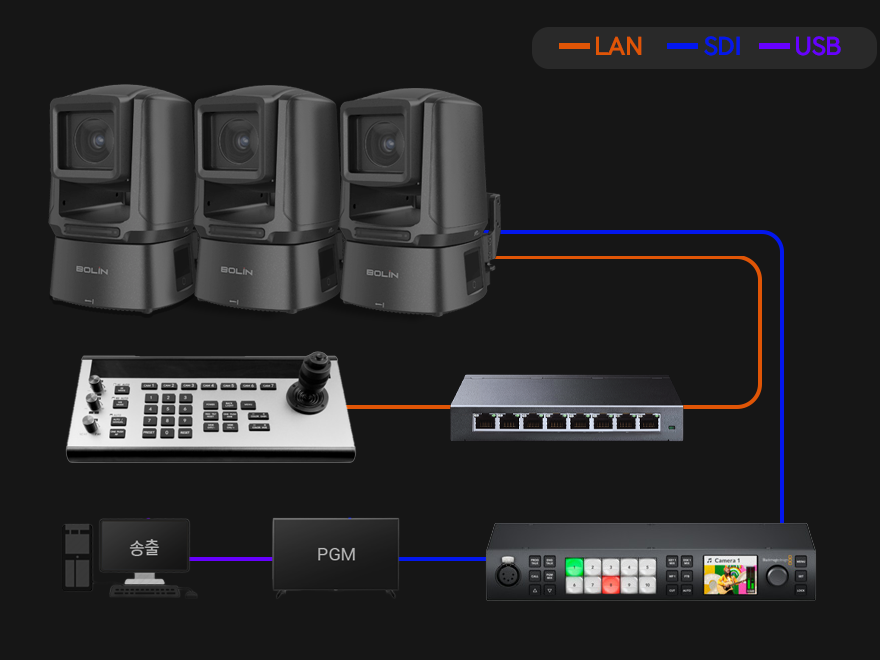
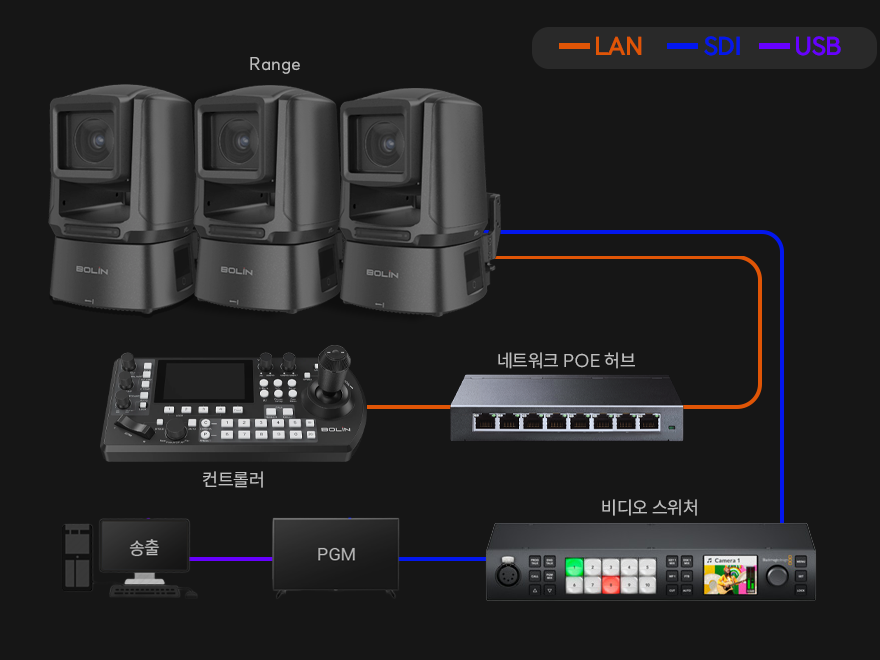
poe
poe

diff --git a/test/prd/main/range/main.html b/test/prd/main/range/main.html
@@ -265,7 +265,7 @@ with 3 Selectable Patterns  (Low/Mid/High)
 
     <section class="av_sc">
       <div class="av_d">
-        <h2>IP65 방수/방진
+        <h2>IP65등급 방수/방진
 </h2>
         <span>
         와이퍼 기능과 IP65 등급의 보호 기능은 카메라를 먼지와 물로부터 보호하여 실외 및 열악한 환경에서도 안정적인 작동을 보장합니다.
@@ -282,7 +282,7 @@ with 3 Selectable Patterns  (Low/Mid/High)
 
     <section class="av_sc">
       <div class="av_d">
-        <h2>Go Where the Story Happens</h2>
+        <h2>휴대용 케이스 제공</h2>
         <span>
         이동이 잦은 프로덕션을 위해 설계되었습니다. 라이브 이벤트부터 임시 설치물, 현장 촬영까지, Range 카메라는 신속하게 배치하여 스토리가 펼쳐지는 곳이라면 어디든 가져갈 수 있도록 디자인되었습니다. 포함된 휴대용 케이스에서 카메라를 꺼내 장착하고 바로 촬영을 시작하세요. 이벤트가 끝나면 다시 케이스에 넣어 다음 장소로 이동하면 됩니다.
         </span>
@@ -351,7 +351,7 @@ with 3 Selectable Patterns  (Low/Mid/High)
 
         <script src="https://kit.fontawesome.com/df91602618.js" crossorigin="anonymous"></script>
         <div class="ad_s">
-          <div><img src="../../img/b7/zpoez.png">
+          <div><img src="../../img/range/ragne2.png">
             <span style="color: #ccc; display: flex; margin: 0 auto;">외부 장치를 작동시키기 위해 최대 12V, 2A의 전력 출력을 제공</span>
         </div>
        </div>
@@ -378,8 +378,8 @@ with 3 Selectable Patterns  (Low/Mid/High)
         카메라의 팬, 틸트, 줌을 원격으로 조정할 수 있어 사용자의 편의성을 높여줍니다.
         </span>
         <div class="ad_s" id="srej">
-        <li><img src="../../img/range/re4.png"><h5>KBD-PLUS(옵션)</h5><span>카메라 1~7번<br>프리셋 255개 Max</span></li>
-        <li><img src="../../img/range/re3.png" width="80%"><h5>SMC-100(옵션)</h5><span>카메라 1~5번<br>프리셋 255개</span></li>
+        <li><img src="../../img/range/re4.png"><h5>KBD-PLUS(옵션)</h5><span>카메라 1~10번<br>프리셋 255개 Max</span></li>
+        <li><img src="../../img/range/re3.png" width="80%"><h5>SMC-100(옵션)</h5><span>카메라 1~7번<br>프리셋 255개</span></li>
         <li><img src="../../img/range/re1.png" width="60%"><h5>리모컨(포함)</h5><span>카메라 1~4번<br>프리셋 9개 Max</span></li>
        </div>
       </div>